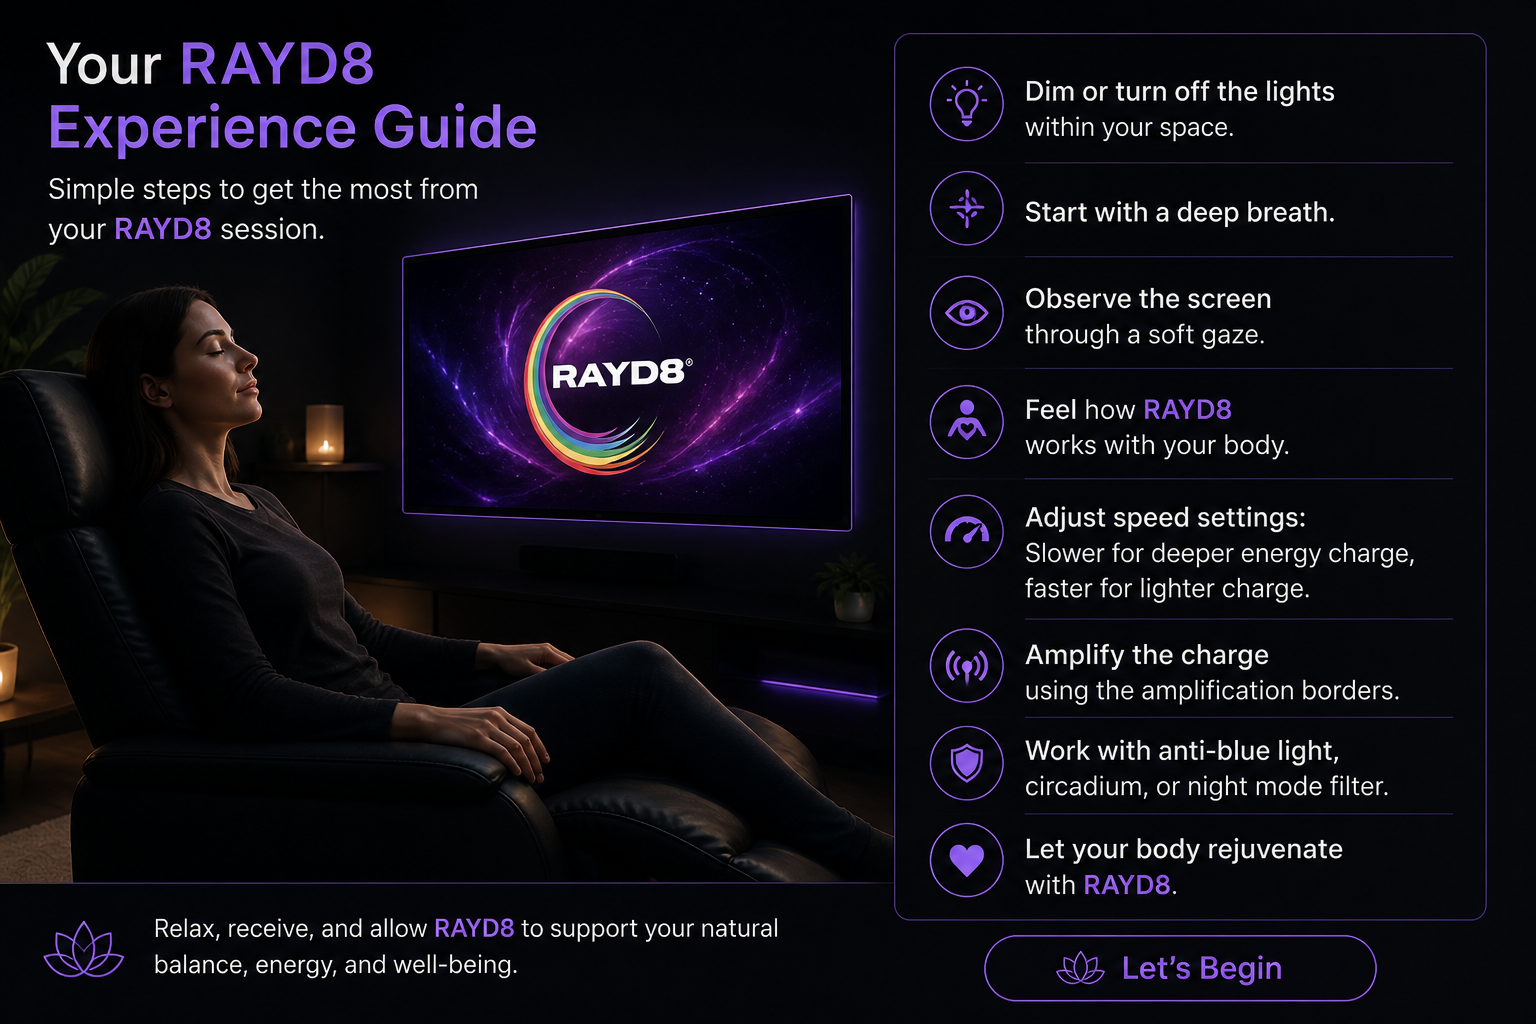
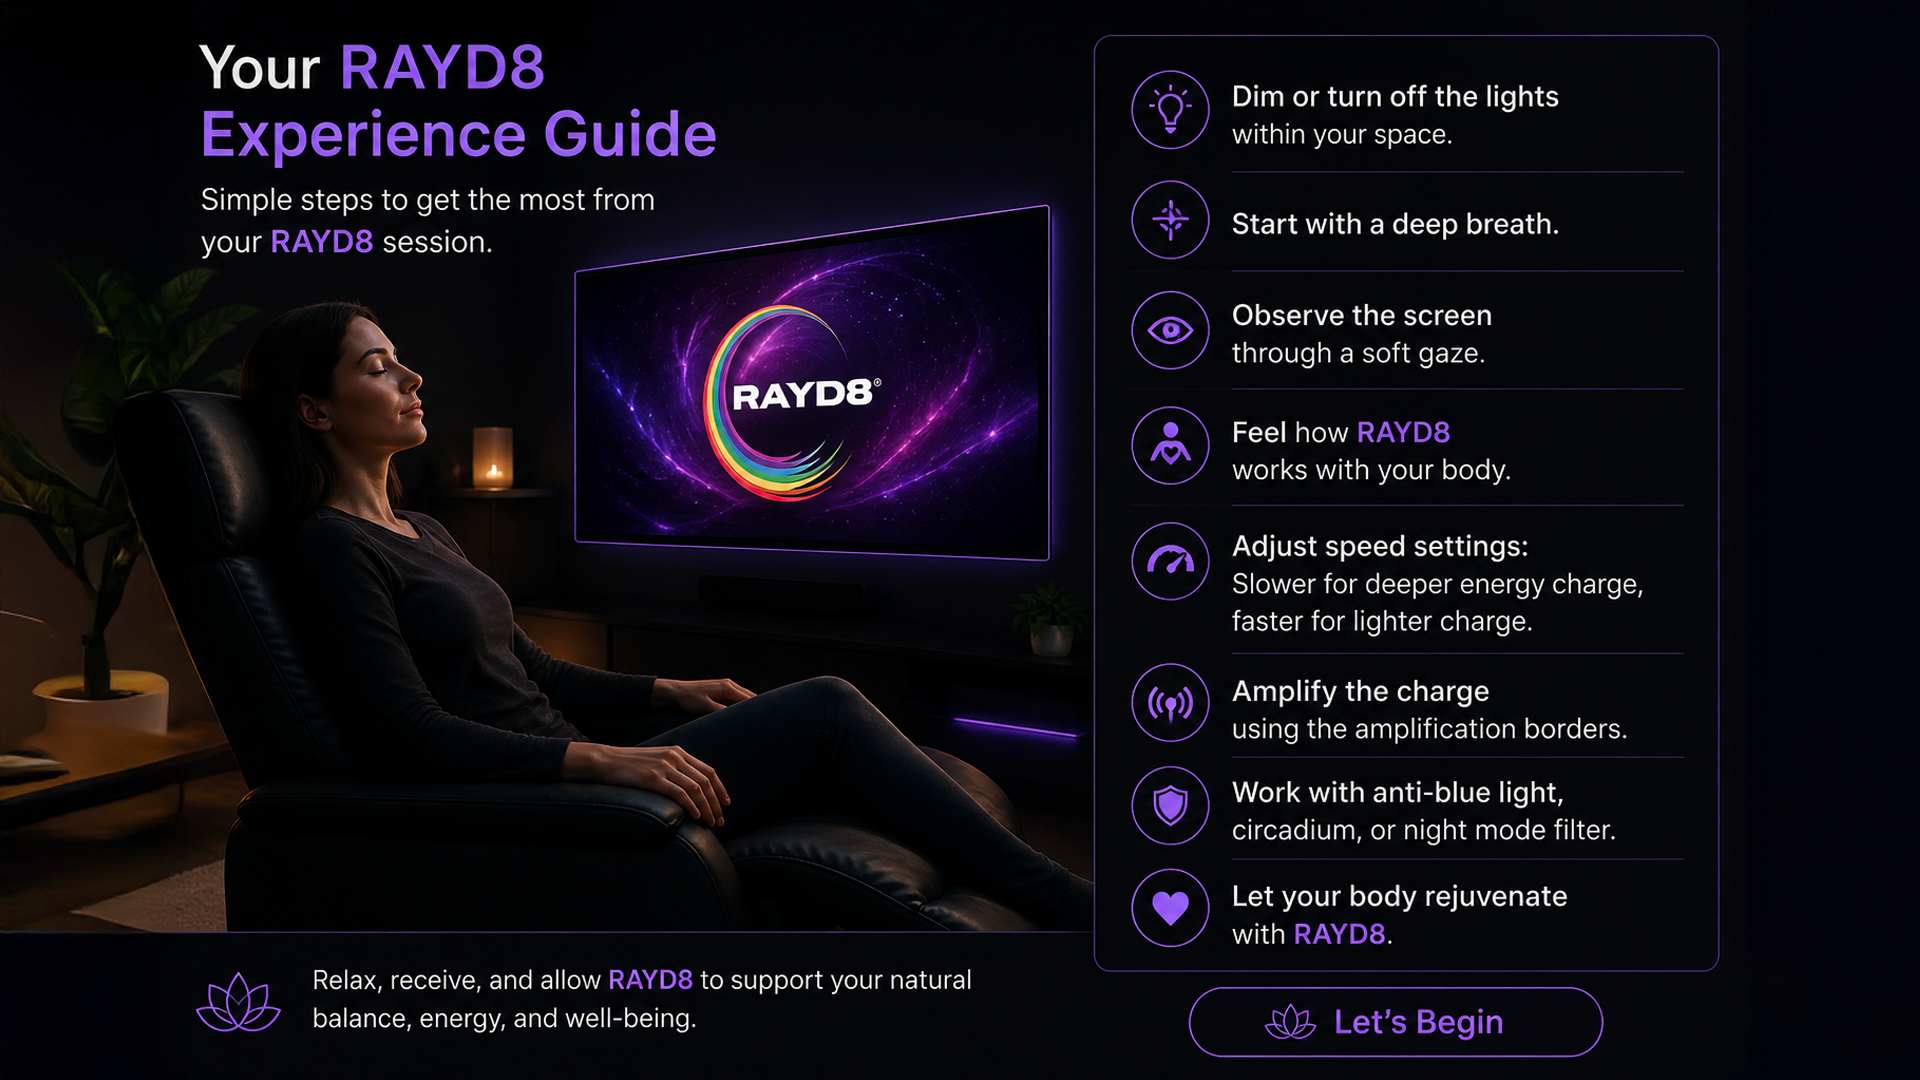
Make RAYD8 guide a full-screen session gate

diff --git a/web/src/features/rayd8-player/GuideModal.tsx b/web/src/features/rayd8-player/GuideModal.tsx
@@ -1,3 +1,6 @@
+import { useEffect } from 'react'
+import { createPortal } from 'react-dom'
+
 interface GuideModalProps {
   isClosing?: boolean
   isSubmitting?: boolean
@@ -6,7 +9,8 @@ interface GuideModalProps {
   onPrimary: () => void
 }
 
-const guideImageSrc = '/assets/rayd8-guide.png'
+const guideImagePngSrc = '/assets/rayd8-guide.png'
+const guideImageWebpSrc = '/assets/rayd8-guide.webp'
 
 export function GuideModal({
   isClosing = false,
@@ -17,20 +21,34 @@ export function GuideModal({
 }: GuideModalProps) {
   const isManual = mode === 'manual'
 
-  return (
+  useEffect(() => {
+    const previousOverflow = document.body.style.overflow
+    document.body.style.overflow = 'hidden'
+
+    return () => {
+      document.body.style.overflow = previousOverflow
+    }
+  }, [])
+
+  return createPortal(
     <div
       aria-modal="true"
       className={[
-        'fixed inset-0 z-[10000] flex items-center justify-center bg-black/78 p-4 transition-opacity duration-200 sm:p-6',
+        'fixed inset-0 z-[9999] flex items-center justify-center overflow-y-auto bg-black/85 px-4 py-5 backdrop-blur-sm transition-opacity duration-200 sm:px-6 lg:px-10',
         isClosing ? 'opacity-0' : 'opacity-100',
       ].join(' ')}
       role="dialog"
     >
-      <div className="relative flex max-h-[min(92vh,58rem)] w-full max-w-4xl flex-col overflow-hidden rounded-[2rem] border border-white/10 bg-[rgba(5,10,14,0.96)] shadow-[0_24px_90px_rgba(0,0,0,0.5)] backdrop-blur-2xl">
+      <div
+        className={[
+          'relative mx-auto flex min-h-[calc(100svh-2.5rem)] w-full max-w-[92rem] items-center justify-center transition-transform duration-200 sm:min-h-[calc(100svh-3rem)]',
+          isClosing ? 'scale-[0.98]' : 'scale-100',
+        ].join(' ')}
+      >
         {isManual ? (
           <button
             aria-label="Close guide"
-            className="absolute right-4 top-4 z-10 inline-flex h-10 w-10 items-center justify-center rounded-full border border-white/10 bg-black/35 text-white transition hover:bg-white/10"
+            className="absolute right-0 top-0 z-10 inline-flex h-11 w-11 items-center justify-center rounded-full border border-white/10 bg-black/60 text-white shadow-[0_12px_36px_rgba(0,0,0,0.35)] transition hover:bg-white/10 sm:right-2 sm:top-2"
             onClick={onClose}
             type="button"
           >
@@ -40,57 +58,57 @@ export function GuideModal({
           </button>
         ) : null}
 
-        <div className="overflow-y-auto">
-          <div className="grid gap-0 lg:grid-cols-[minmax(0,1.2fr)_minmax(22rem,0.8fr)]">
-            <div className="bg-black/35 p-4 sm:p-6">
+        <div className="grid w-full items-center gap-6 py-10 sm:gap-8 lg:grid-cols-[minmax(0,1fr)_minmax(22rem,26rem)] lg:gap-12 lg:py-0 xl:gap-14">
+          <div className="flex min-w-0 justify-center">
+            <picture>
+              <source srcSet={guideImageWebpSrc} type="image/webp" />
               <img
                 alt="RAYD8 experience guide"
-                className="h-auto w-full rounded-[1.5rem] border border-white/10 object-contain"
+                className="max-h-[58svh] w-full rounded-[1.25rem] border border-white/10 object-contain shadow-[0_24px_90px_rgba(0,0,0,0.55)] sm:max-h-[60svh] lg:h-auto lg:max-h-[80vh] lg:w-auto lg:max-w-[min(62vw,900px)] lg:rounded-[1.75rem]"
                 decoding="async"
                 loading="eager"
-                src={guideImageSrc}
+                src={guideImagePngSrc}
               />
-            </div>
+            </picture>
+          </div>
 
-            <div className="flex flex-col justify-between p-6 sm:p-8">
-              <div>
-                <p className="text-xs uppercase tracking-[0.32em] text-emerald-200/60">
-                  {isManual ? 'RAYD8 guide' : 'Before you begin'}
-                </p>
-                <h2 className="mt-3 text-3xl font-semibold text-white">
-                  {isManual ? 'RAYD8 Experience Guide' : 'Prepare for your RAYD8 session'}
-                </h2>
-                <p className="mt-4 text-sm leading-7 text-slate-300">
-                  {isManual
-                    ? 'Revisit the guide at any time without interrupting the current session.'
-                    : 'Review the experience guide before the session begins. Playback will start only after you confirm you are ready.'}
-                </p>
-              </div>
+          <div className="mx-auto flex w-full max-w-xl flex-col items-center rounded-[1.75rem] border border-white/10 bg-slate-950/55 p-5 text-center shadow-[0_24px_80px_rgba(0,0,0,0.4)] backdrop-blur-xl sm:p-7 lg:mx-0 lg:items-start lg:bg-transparent lg:p-0 lg:text-left lg:shadow-none lg:backdrop-blur-0">
+            <p className="text-[0.68rem] uppercase tracking-[0.34em] text-emerald-200/70">
+              {isManual ? 'RAYD8 guide' : 'Before you begin'}
+            </p>
+            <h2 className="mt-3 text-3xl font-semibold leading-tight text-white sm:text-4xl lg:text-5xl">
+              {isManual ? 'RAYD8 Experience Guide' : 'Prepare for your RAYD8 Session'}
+            </h2>
+            <p className="mt-4 max-w-md text-sm leading-7 text-slate-200/85 sm:text-base">
+              {isManual
+                ? 'Revisit the full guide at any time without interrupting the current session.'
+                : 'Review the experience guide before the session begins. Playback will start only after you confirm you are ready.'}
+            </p>
 
-              <div className="mt-8 space-y-3">
+            <div className="mt-7 flex w-full flex-col items-center gap-3 sm:mt-8 lg:items-start">
+              <button
+                className="w-full rounded-2xl bg-[linear-gradient(135deg,rgba(16,185,129,0.95),rgba(59,130,246,0.94))] px-7 py-4 text-base font-semibold text-white shadow-[0_18px_55px_rgba(16,185,129,0.26)] transition hover:-translate-y-0.5 hover:shadow-[0_22px_65px_rgba(59,130,246,0.28)] disabled:cursor-not-allowed disabled:opacity-60 sm:w-auto sm:min-w-72"
+                disabled={isSubmitting}
+                onClick={onPrimary}
+                type="button"
+              >
+                {isSubmitting ? 'Starting...' : isManual ? 'Close Guide' : 'Begin RAYD8 Session'}
+              </button>
+
+              {isManual ? (
                 <button
-                  className="w-full rounded-2xl bg-[linear-gradient(135deg,rgba(16,185,129,0.95),rgba(59,130,246,0.92))] px-5 py-3 text-sm font-medium text-white transition hover:-translate-y-0.5 disabled:cursor-not-allowed disabled:opacity-60"
-                  disabled={isSubmitting}
-                  onClick={onPrimary}
+                  className="w-full rounded-2xl border border-white/10 bg-white/[0.06] px-7 py-3.5 text-sm font-medium text-slate-200 transition hover:bg-white/[0.12] sm:w-auto sm:min-w-72"
+                  onClick={onClose}
                   type="button"
                 >
-                  {isSubmitting ? 'Starting...' : isManual ? 'Close' : 'Begin RAYD8 Session'}
+                  Keep Watching
                 </button>
-
-                {isManual ? (
-                  <button
-                    className="w-full rounded-2xl border border-white/10 bg-white/[0.05] px-5 py-3 text-sm font-medium text-slate-200 transition hover:bg-white/[0.1]"
-                    onClick={onClose}
-                    type="button"
-                  >
-                    Keep Watching
-                  </button>
-                ) : null}
-              </div>
+              ) : null}
             </div>
           </div>
         </div>
       </div>
-    </div>
+    </div>,
+    document.body,
   )
 }

diff --git a/web/src/components/Rayd8SessionOverlay.tsx b/web/src/components/Rayd8SessionOverlay.tsx
@@ -70,7 +70,7 @@ export function Rayd8SessionOverlay() {
   return createPortal(
     <div
       className={[
-        'fixed inset-0 z-[9999] h-[100dvh] w-screen bg-black',
+        'fixed inset-0 z-[9000] h-[100dvh] w-screen bg-black',
         'transition-opacity duration-300 ease-out',
         visible ? 'opacity-100' : 'opacity-0',
       ].join(' ')}
